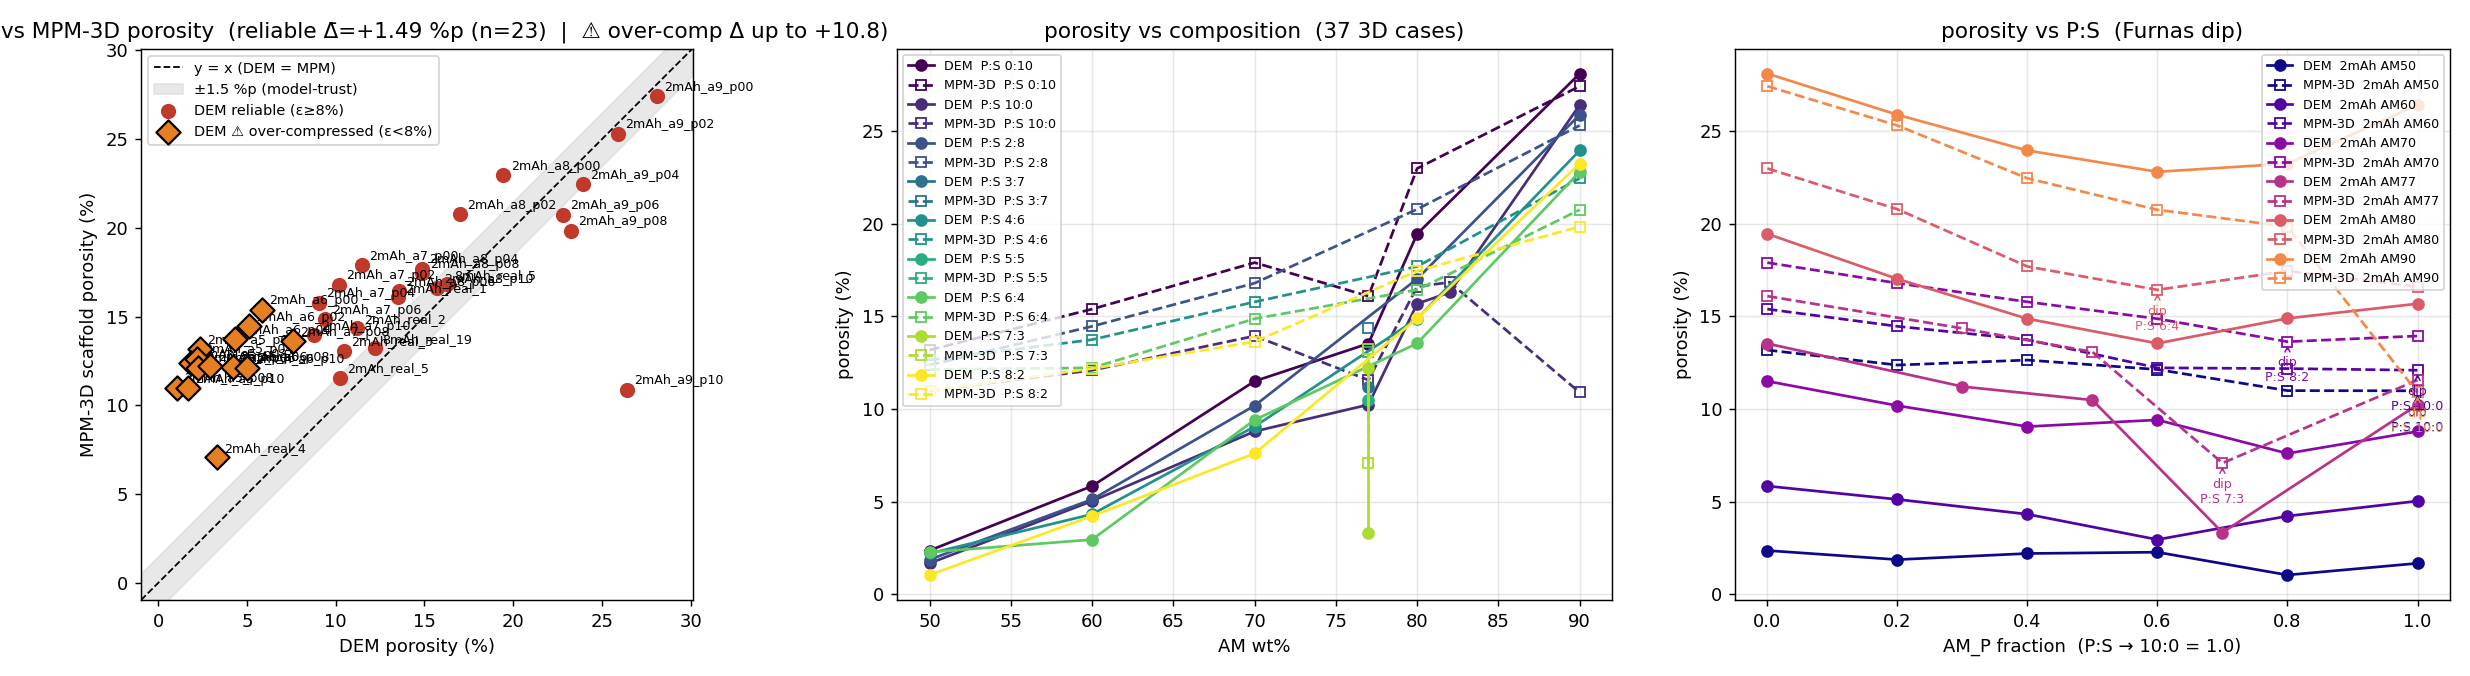
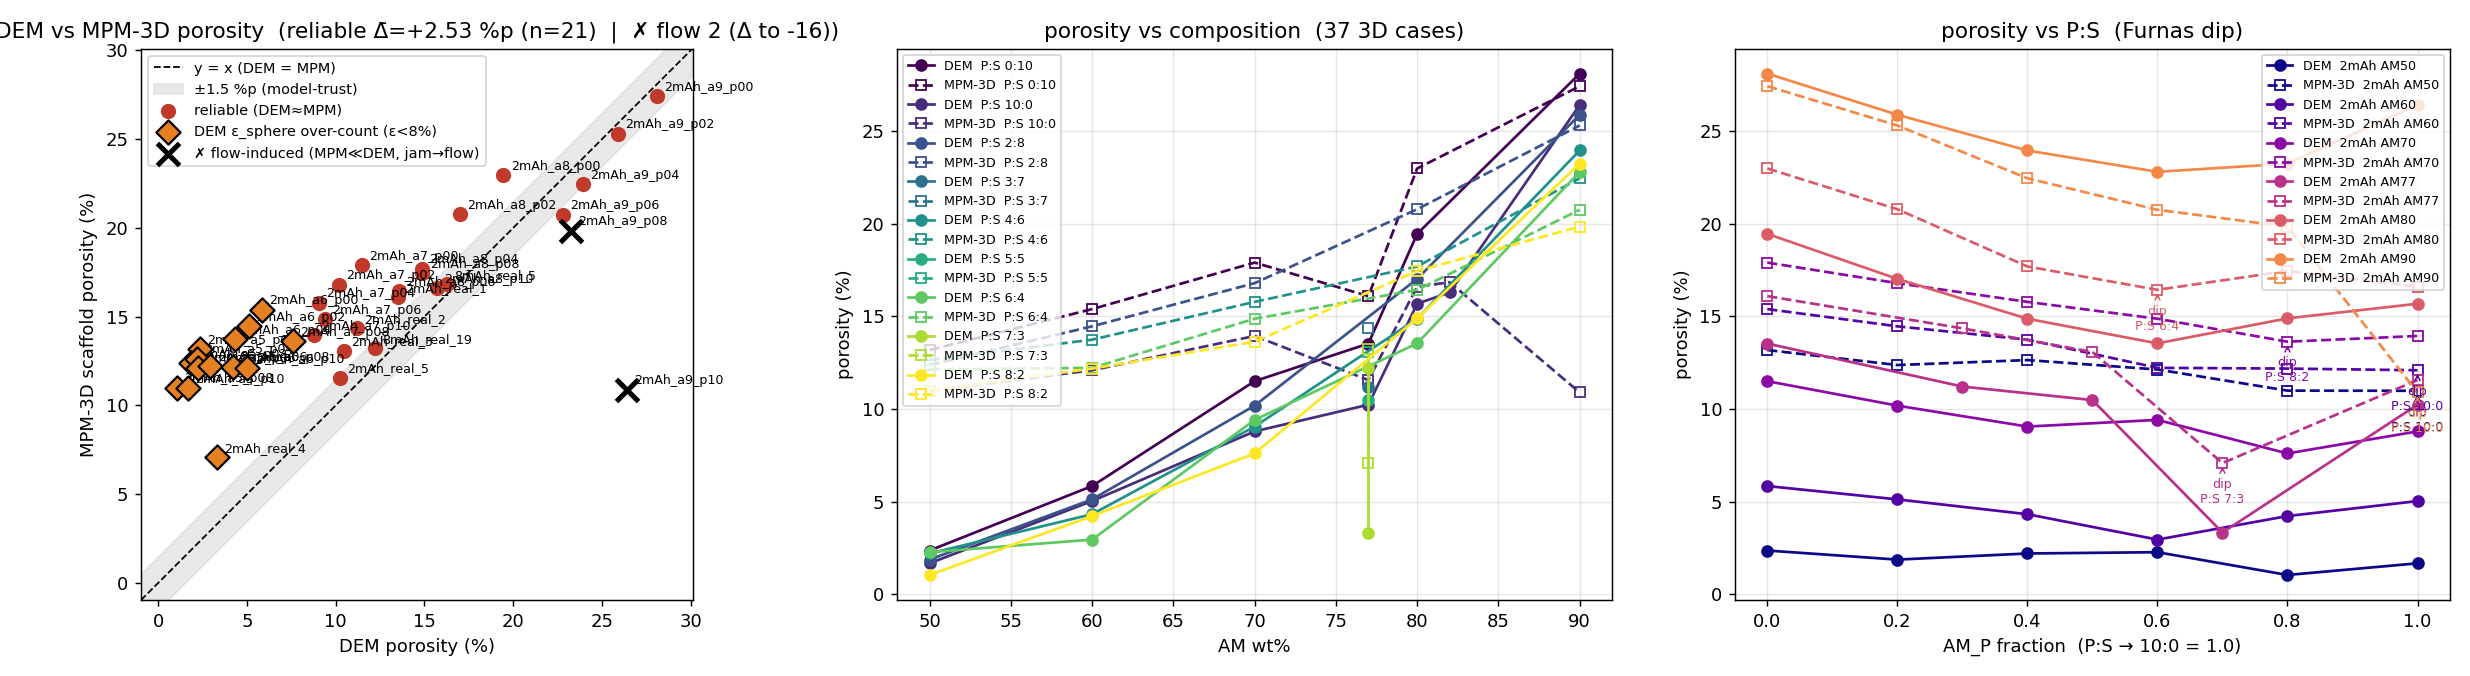
plot: mark flow-induced outliers (MPM<<DEM) with X in parity
Panel 1 now 3-way: reliable circles, ε_sphere over-count diamonds, and the
flow-induced reversal cases (MPM-DEM < -3, a9_p08/a9_p10) marked with a black X
— where the MPM continuum SE flows BELOW the DEM rigid-jam packing (the genuine
divergence, not a measurement artifact).

diff --git a/scripts/plot_2d_3d_porosity.py b/scripts/plot_2d_3d_porosity.py
@@ -64,19 +64,25 @@ def main():
     ax1.plot([lo, hi], [lo, hi], 'k--', lw=1, label='y = x (DEM = MPM)')
     ax1.fill_between([lo, hi], [lo - 1.5, hi - 1.5], [lo + 1.5, hi + 1.5], color='0.85', alpha=0.6,
                      label='±1.5 %p (model-trust)')
-    oc = dem < 8.0                                      # DEM over-compressed (dashboard ⚠ threshold)
-    ax1.scatter(dem[~oc], mpm[~oc], s=55, c='#c0392b', zorder=3, label='DEM reliable (ε≥8%)')
+    d = mpm - dem
+    flow = d < -3.0                                     # flow-induced: MPM continuum flows BELOW the
+                                                        # DEM rigid-jam packing (a9_p10 etc.) — real divergence
+    oc = (dem < 8.0) & ~flow                            # DEM over-compressed (ε_sphere over-count artifact)
+    norm = ~flow & ~oc
+    ax1.scatter(dem[norm], mpm[norm], s=55, c='#c0392b', zorder=3, label='reliable (DEM≈MPM)')
     if oc.any():
         ax1.scatter(dem[oc], mpm[oc], s=90, c='#e67e22', edgecolors='k', lw=1.2, marker='D',
-                    zorder=4, label='DEM ⚠ over-compressed (ε<8%)')
+                    zorder=4, label='DEM ε_sphere over-count (ε<8%)')
+    if flow.any():
+        ax1.scatter(dem[flow], mpm[flow], s=150, c='k', marker='x', lw=2.8,
+                    zorder=5, label='✗ flow-induced (MPM≪DEM, jam→flow)')
     for x, y, n in zip(dem, mpm, names):
         ax1.annotate(n, (x, y), fontsize=7, xytext=(4, 3), textcoords='offset points')
     if len(dem) >= 2:
-        d = mpm - dem
-        rel = d[~oc]                                   # model-trust on DEM-reliable cases only
-        rtxt = f'reliable Δ̄={rel.mean():+.2f} %p (n={len(rel)})' if len(rel) else ''
-        otxt = f'  |  ⚠ over-comp Δ up to {d[oc].max():+.1f}' if oc.any() else ''
-        ax1.set_title(f'DEM vs MPM-3D porosity  ({rtxt}{otxt})')
+        rel = d[norm]                                  # model-trust on the reliable cases only
+        rtxt = f'reliable Δ̄={rel.mean():+.2f} %p (n={int(norm.sum())})' if norm.any() else ''
+        ftxt = f'  |  ✗ flow {int(flow.sum())} (Δ to {d[flow].min():+.0f})' if flow.any() else ''
+        ax1.set_title(f'DEM vs MPM-3D porosity  ({rtxt}{ftxt})')
     ax1.set_xlabel('DEM porosity (%)'); ax1.set_ylabel('MPM-3D scaffold porosity (%)')
     ax1.set_xlim(lo, hi); ax1.set_ylim(lo, hi); ax1.legend(fontsize=8); ax1.set_aspect('equal')
 
